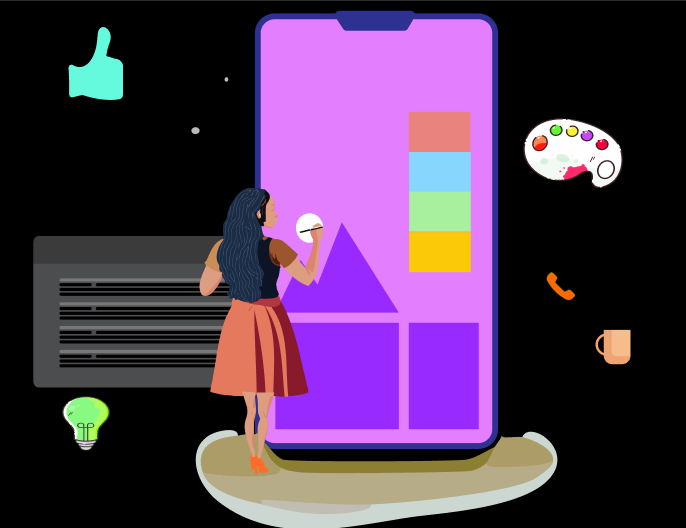
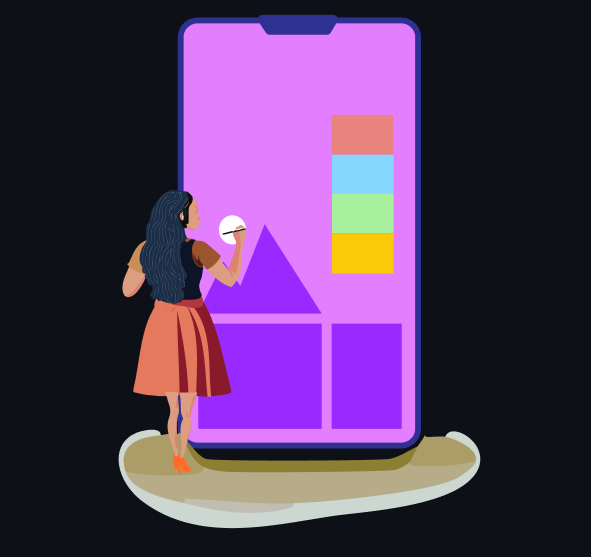
with java script

diff --git a/index.html b/index.html
@@ -4,8 +4,10 @@
     <meta charset="UTF-8">
     <meta name="viewport" content="width=device-width, initial-scale=1.0">
     <title>Document</title>
-
     <link rel="stylesheet" href="./css/style.css">
+    <link rel="preconnect" href="https://fonts.googleapis.com">
+    <link rel="preconnect" href="https://fonts.gstatic.com" crossorigin>
+    <link href="https://fonts.googleapis.com/css2?family=DM+Serif+Display:ital@0;1&display=swap" rel="stylesheet">
 
 </head>
 <body>
@@ -21,30 +23,24 @@
 
 
 
-    <!-- java dots
+    <!-- java dots-->
 
-<div id="particles-js">
-    <canvas class="particles-js-canvas-el">
-    </canvas>
-</div>  -->
+    <div id="particles-js">
+        <canvas class="particles-js-canvas-el">
+        </canvas>
+    </div>
 
     <!-- The  second Section -->
     <div class="descriptionbox">
         <div class="summary">
-            <div class="details">
-                <h3> I am a UX Designer driven to create impactful user experiences that resonate and inspire.
-                </h3>
-                <h4> My design process: Understand the problem → Research existing solutions → Brainstorm ideas
-                    → Draw →
-                    Prototype → Usability Test → Release → Improve → Repeat.</h4>
-                <!-- The line  <div class="sline"></div>-->
-            </div>
-
-            <!-- heart section -->
-            <div class="heart">
-                <p> ❤ </p>
-            </div>
+            <h3> I am a UX Designer driven to create impactful user experiences that resonate and inspire.
+            </h3>
+            <h4> My design process: Understand the problem → Research existing solutions → Brainstorm ideas
+                → Draw →
+                Prototype → Usability Test → Release → Improve → Repeat.</h4>
         </div>
+
+
 
         <!-- picture section -->
         <div class="Profilepic">
@@ -52,9 +48,9 @@
         </div>
 
     </div>
-    <!-- stats.js lib 
-    <script src="./js/particles.min.js"></script> 
-    <script src="./js/index.js"></script>-->
+    <!-- stats.js lib -->
+    <script src="./js/particles.min.js"></script>
+    <script src="./js/index.js"></script>
 
 
 

diff --git a/css/style.css b/css/style.css
@@ -23,9 +23,10 @@
 
 h1 {
     margin-left: 1%;
-    font-size: 32px;
+    font-size: 30px;
+    font-family: "DM Serif Display", serif;
+    font-weight: 400;
     font-style: normal;
-    font-family: 'Times New Roman', Times, serif;
     color: #D9D9D9;
 }
 
@@ -57,7 +58,7 @@ canvas {
 /* second section inside*/
 
 .descriptionbox {
-    background-color: #8c9aaf;
+    background-color: #0D1117;
     display: flex;
     align-items: center;
 }
@@ -65,7 +66,10 @@ canvas {
 
 .summary {
 
-    display: flex;
+
+    width: auto;
+    margin-left: 10%;
+    padding: 1%;
 }
 
 
@@ -78,6 +82,7 @@ canvas {
 /* color words  */
 .summary h3 {
     font-size: 3vw;
+    font-family: "DM Serif Display", serif;
     background: #C23BFF;
     background: linear-gradient(to right, #C23BFF 0%, #3D99F5 89%);
     -webkit-background-clip: text;
@@ -241,7 +246,7 @@ canvas {
 .footerhead {
     display: flex;
     justify-content: space-between;
-    background-color: #636b7a;
+    background-color: #181D26;
     padding: 2%;
     border-top: 1px solid #918f8f;
     box-shadow: #1EAE98;
@@ -287,7 +292,7 @@ li {
 
 .keyword {
     width: 25%;
-    background-color: #181D26;
+
     align-items: end;
 
 }
